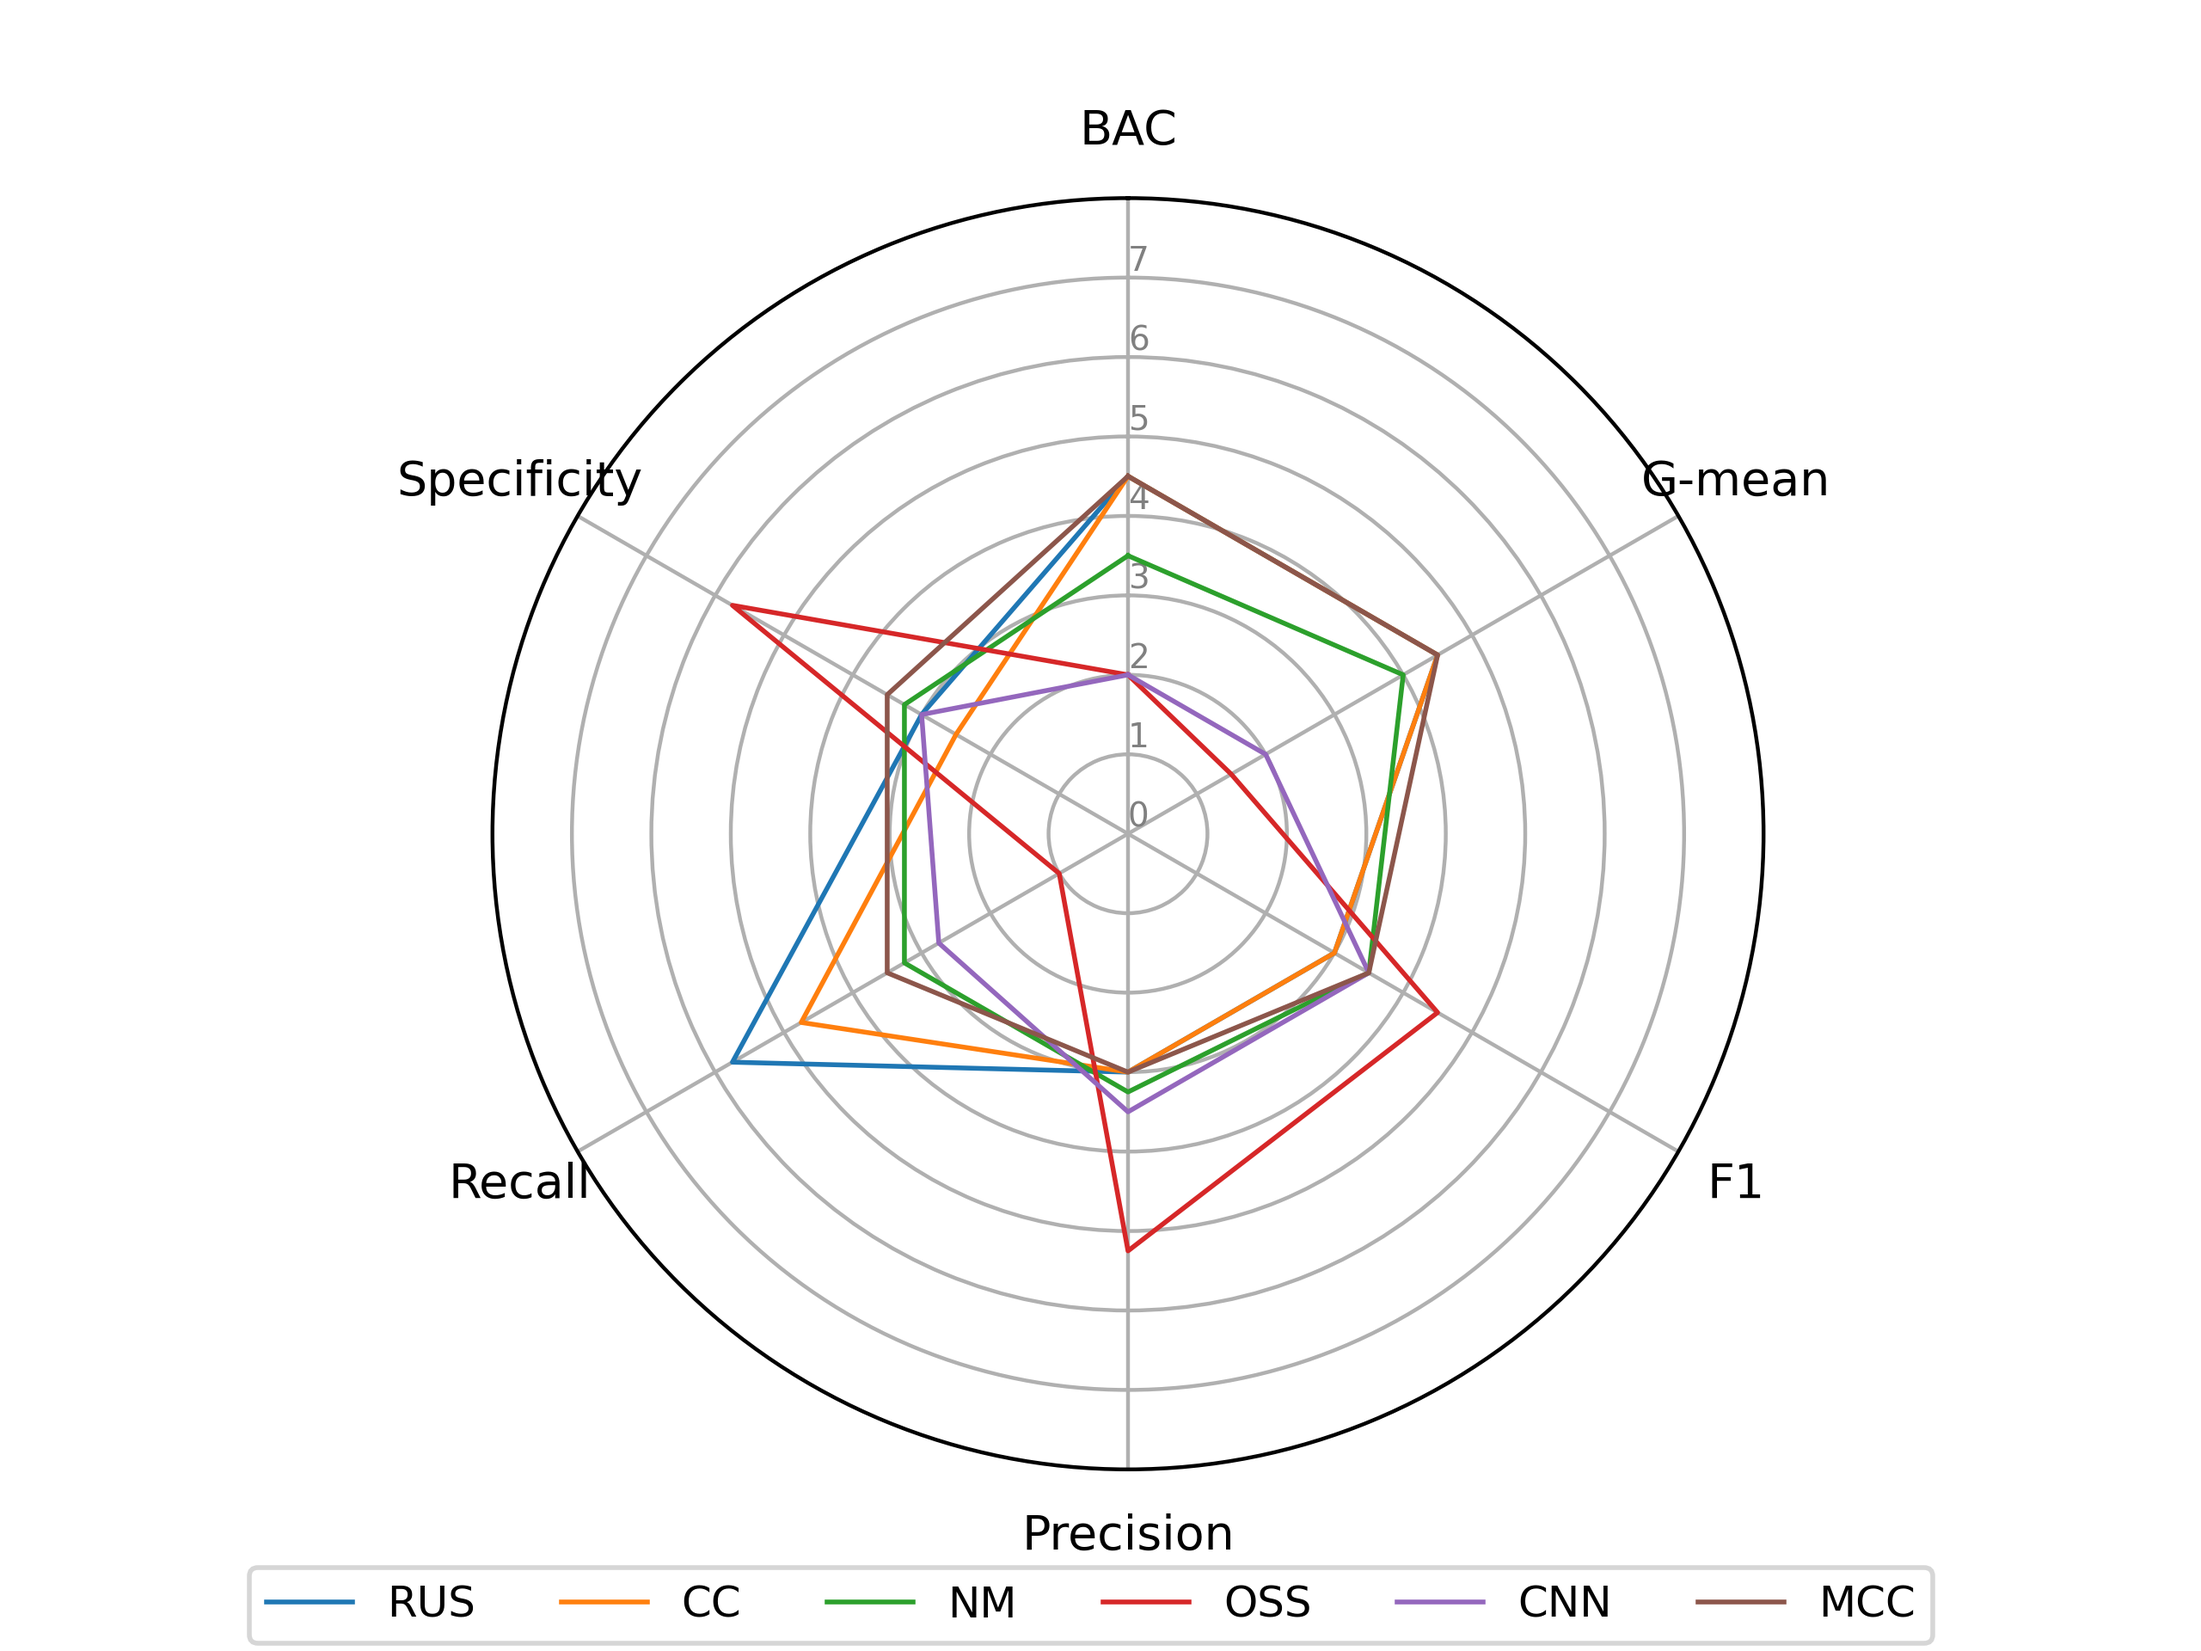
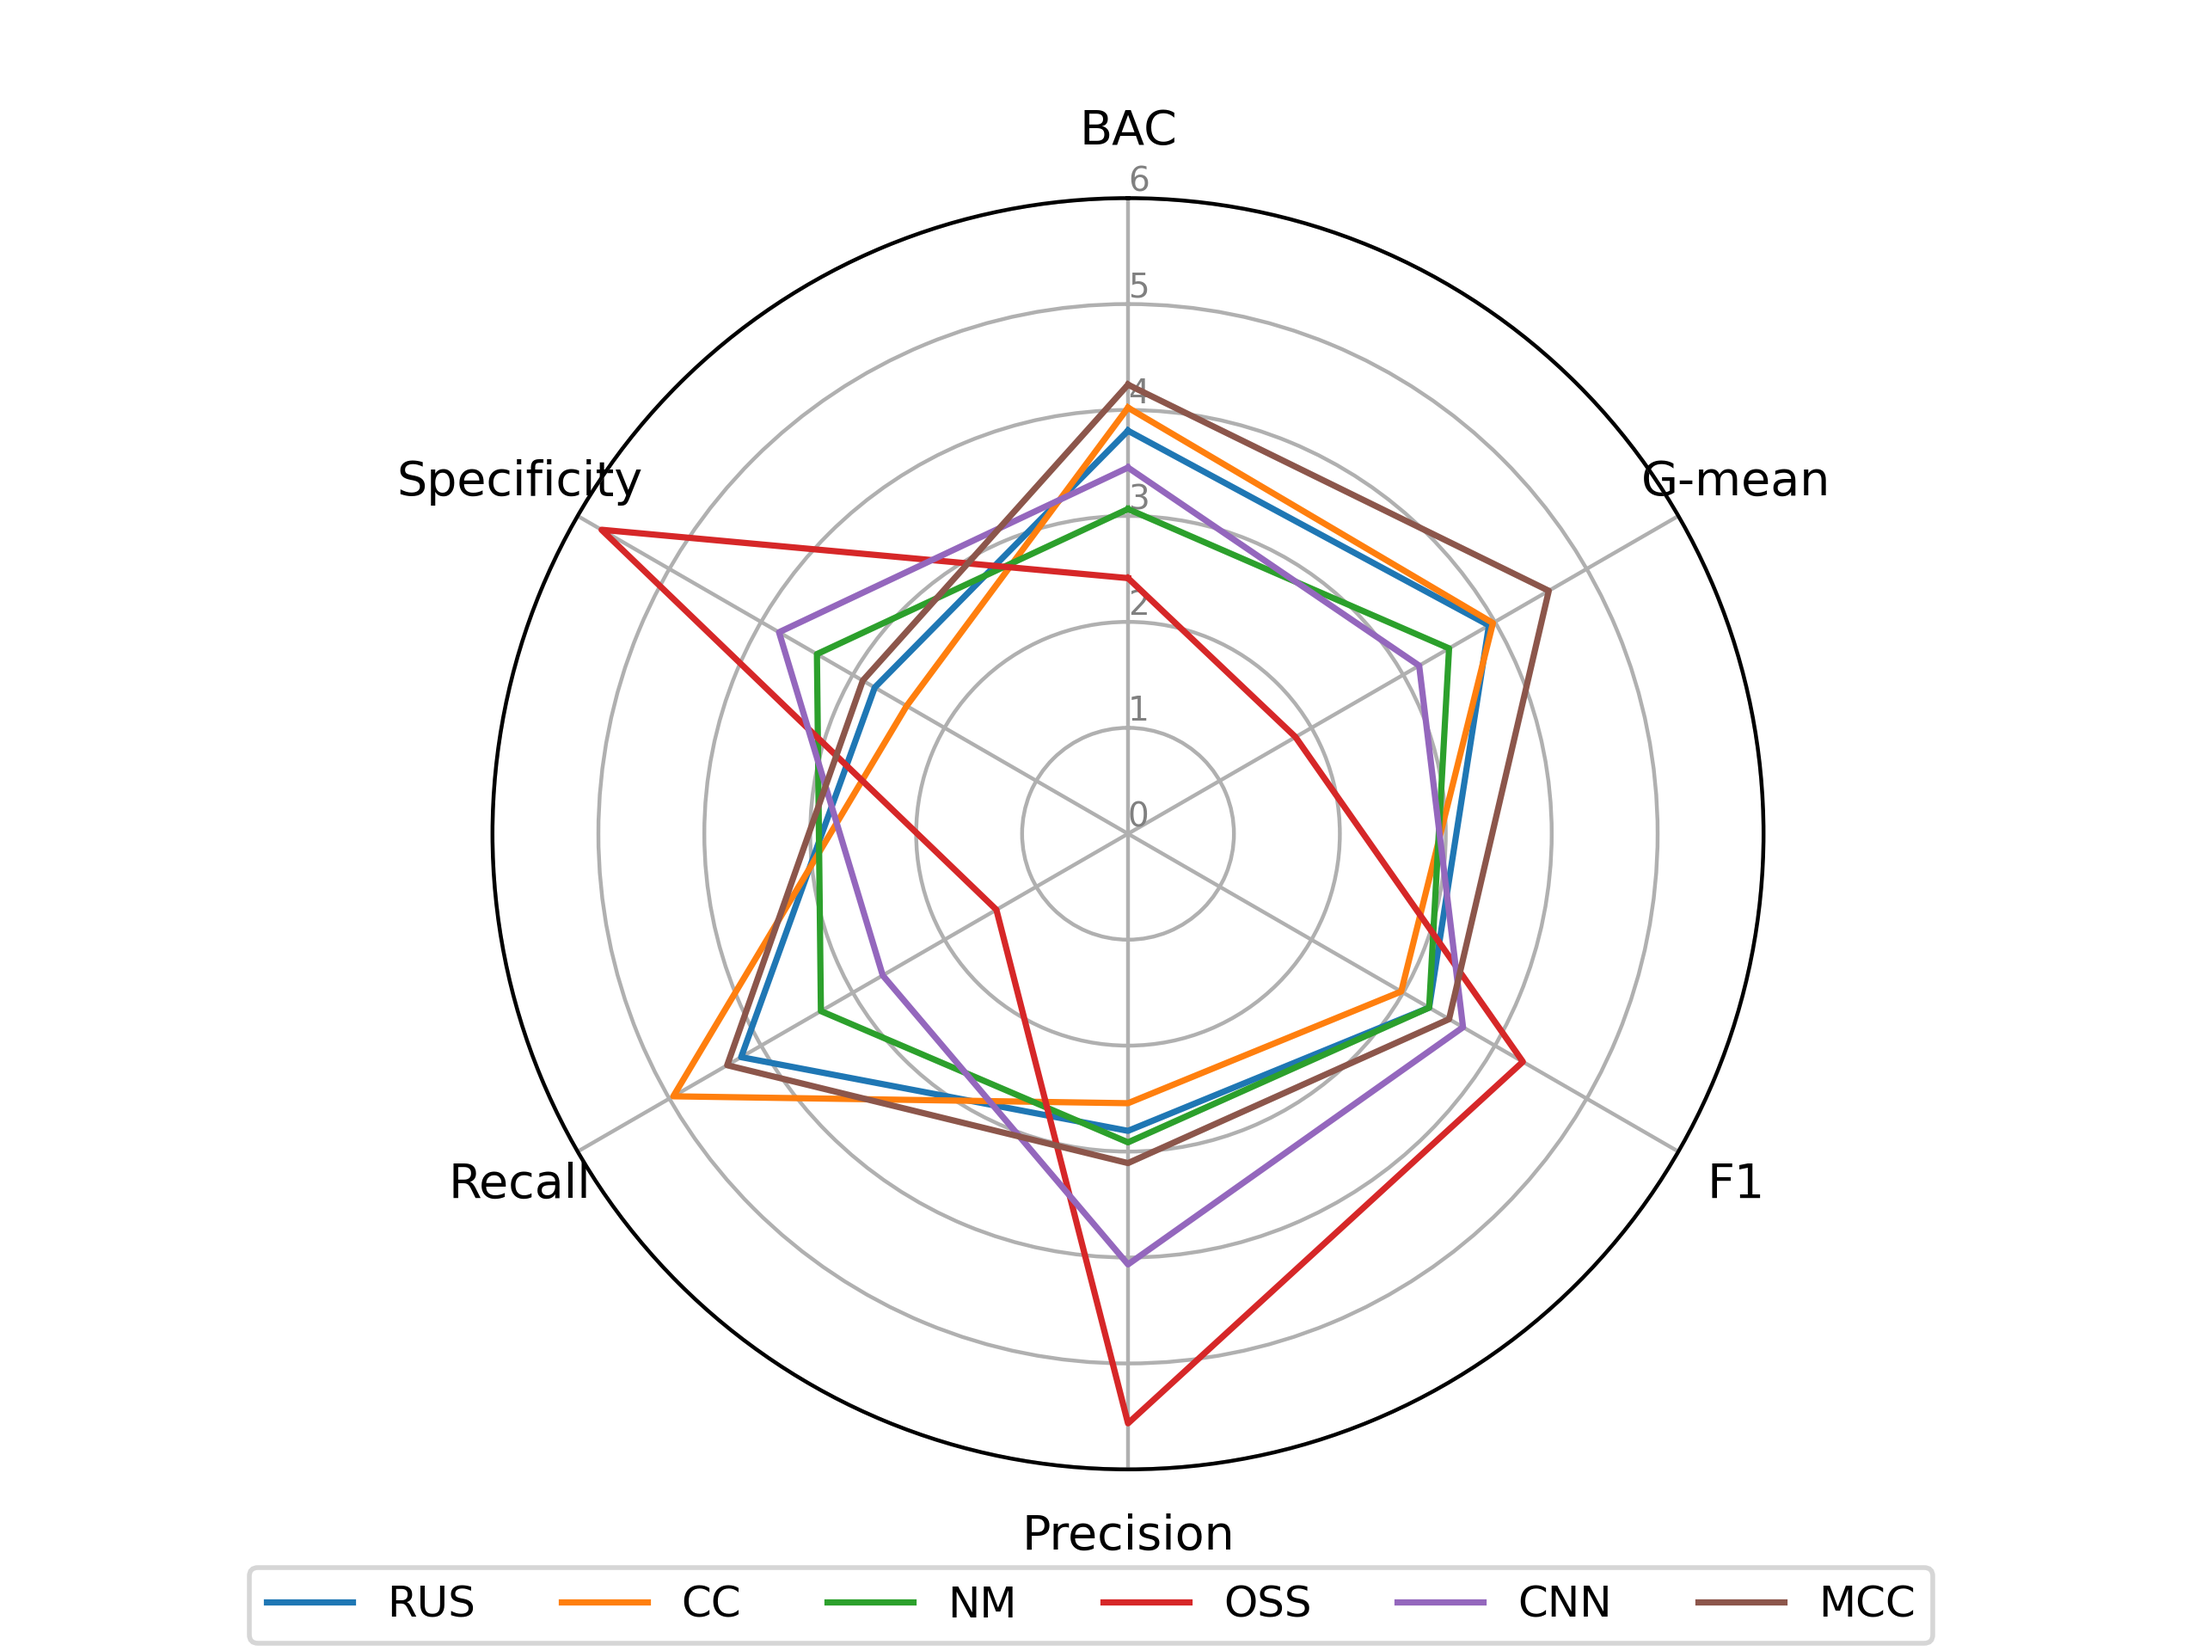
Add radar plot

diff --git a/undersampling_test/RadarGraph.py b/undersampling_test/RadarGraph.py
@@ -20,13 +20,13 @@ ax.set_theta_direction(-1)
 ax.set_rlabel_position(0)
 
 plt.xticks(angles[:-1], metrics)
-plt.yticks([0,1, 2, 3, 4, 5, 6, 7], ["0", "1", "2", "3", "4", "5", "6", "7"], color="grey", size=7)
-plt.ylim(0,8)
+plt.yticks([0,1, 2, 3, 4, 5, 6], ["0", "1", "2", "3", "4", "5", "6"], color="grey", size=7)
+plt.ylim(0,6)
 
 for method_id, method in enumerate(preprocs):
     values = mean_ranks[:, method_id].tolist()
     values += values[:1]
-    ax.plot(angles, values, linewidth=1, linestyle='solid', label=method)
+    ax.plot(angles, values, linewidth=1.3, linestyle='solid', label=method)
 
 # Legend
 plt.legend(bbox_to_anchor=(1.15, -0.06), ncol=8, fontsize=9)
